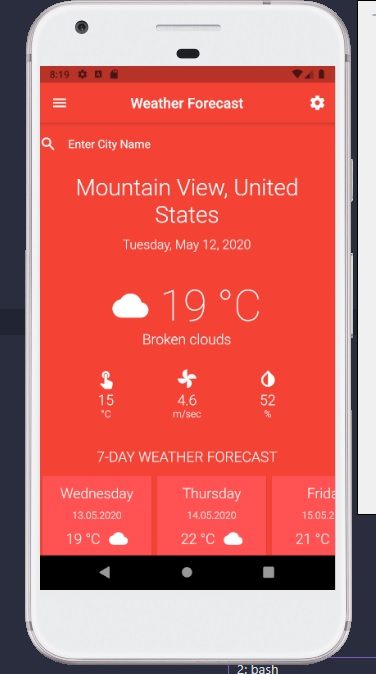
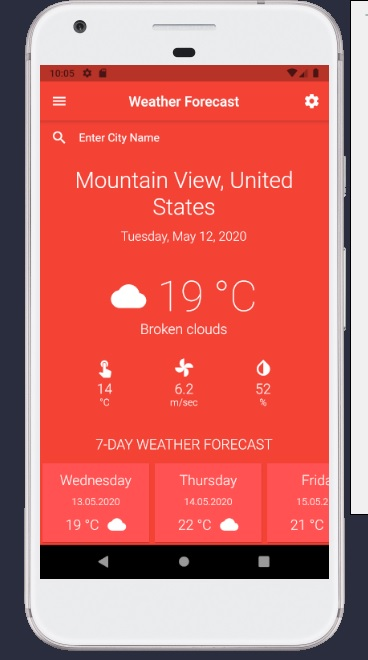
Add loader, add search padding

diff --git a/lib/components/homeBody.dart b/lib/components/homeBody.dart
@@ -17,6 +17,7 @@ class HomeBody extends StatefulWidget {
 }
 
 class _HomeBody extends State<HomeBody> {
+  bool _loading = true;
   Position _currentPosition;
   String _currentAddress;
   Map _weatherData;
@@ -40,6 +41,7 @@ class _HomeBody extends State<HomeBody> {
           .then((weather) {
         Map<String, dynamic> weaterData = jsonDecode(weather.body);
         setState(() {
+          _loading = false;
           _weatherData = weaterData;
         });
       });
@@ -58,6 +60,16 @@ class _HomeBody extends State<HomeBody> {
           mainAxisAlignment: MainAxisAlignment.spaceBetween,
           children: <Widget>[
             SearchCity(),
+            if (_loading == true) ...[
+              Center(
+                child: Padding(
+                  padding: const EdgeInsets.all(16.0),
+                  child: CircularProgressIndicator(
+                    valueColor: AlwaysStoppedAnimation<Color>(Colors.white),
+                  ),
+                ),
+              )
+            ],
             if (_currentAddress != null)
               CityDetail(
                 location: _currentAddress,
@@ -91,13 +103,5 @@ class _HomeBody extends State<HomeBody> {
         ),
       ),
     );
-/*            return Center(
-              child: Padding(
-                padding: const EdgeInsets.all(16.0),
-                child: CircularProgressIndicator(
-                  valueColor: AlwaysStoppedAnimation<Color>(Colors.white),
-                ),
-              ),
-            );*/
   }
 }

diff --git a/lib/components/searchCity.dart b/lib/components/searchCity.dart
@@ -3,19 +3,22 @@ import 'package:flutter/material.dart';
 class SearchCity extends StatelessWidget {
   @override
   Widget build(BuildContext context) {
-    return TextField(
-      decoration: InputDecoration(
-        focusedBorder: UnderlineInputBorder(
-            borderSide: BorderSide(width: 1, color: Colors.white)),
-        border: InputBorder.none,
-        icon: Icon(
-          Icons.search,
-          color: Colors.white,
+    return Padding(
+      padding: const EdgeInsets.only(left: 16, right: 16),
+      child: TextField(
+        decoration: InputDecoration(
+          focusedBorder: UnderlineInputBorder(
+              borderSide: BorderSide(width: 1, color: Colors.white)),
+          border: InputBorder.none,
+          icon: Icon(
+            Icons.search,
+            color: Colors.white,
+          ),
+          labelText: 'Enter City Name',
+          labelStyle: TextStyle(color: Colors.white),
         ),
-        labelText: 'Enter City Name',
-        labelStyle: TextStyle(color: Colors.white),
+        style: TextStyle(color: Colors.white),
       ),
-      style: TextStyle(color: Colors.white),
     );
   }
 }
